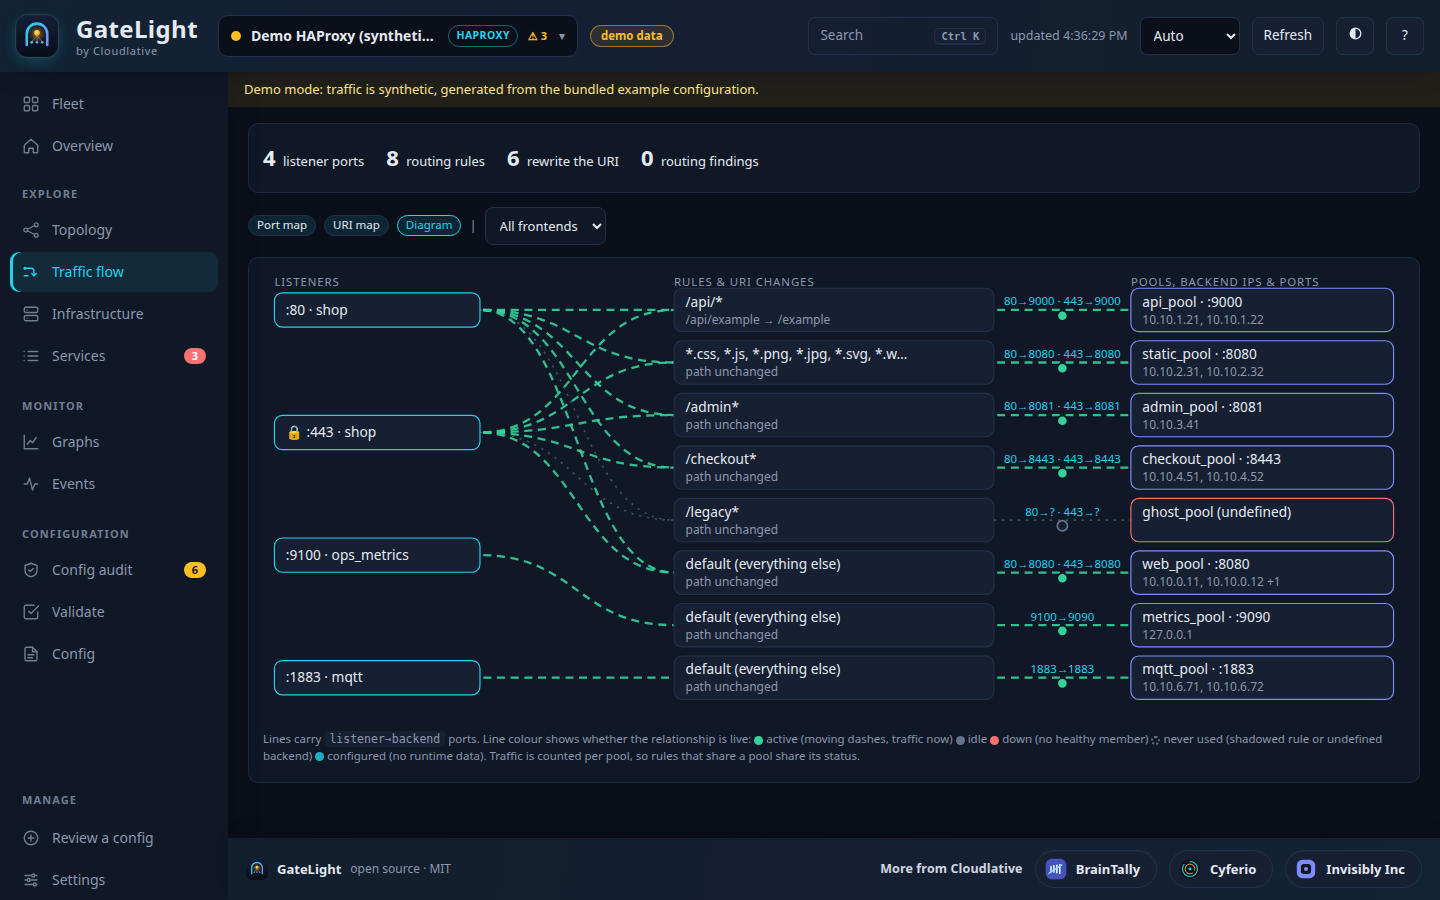
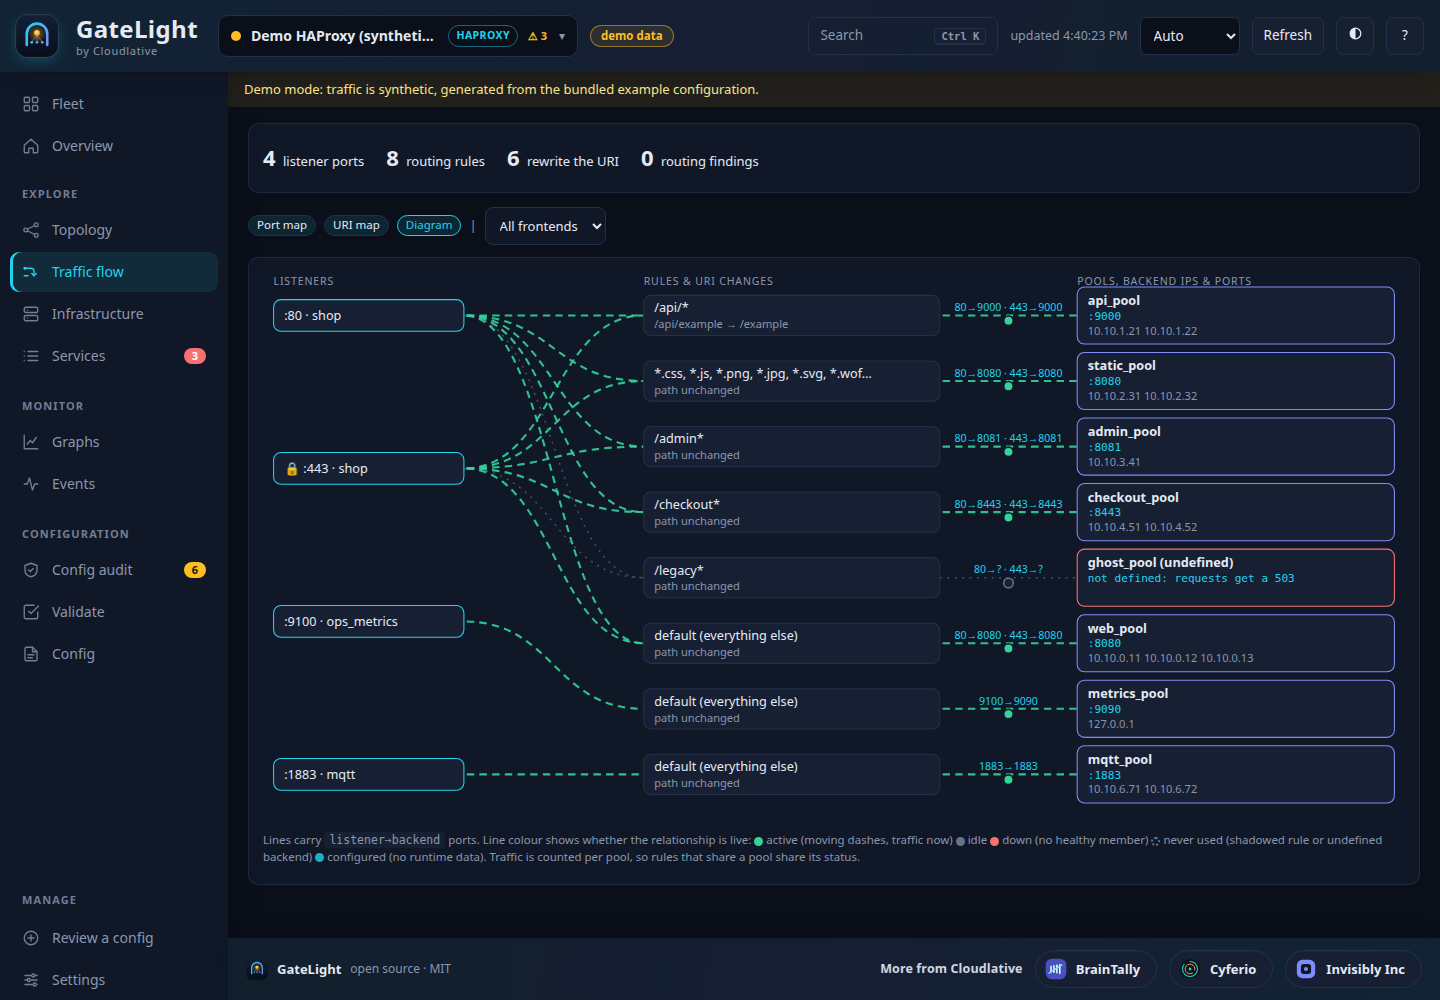
Traffic flow diagram: keep pool info inside its card (name, ports, IPs), shorter line labels

diff --git a/public/app.js b/public/app.js
@@ -1356,29 +1356,43 @@ function flowSvg(flows) {
     f.listeners.filter((l) => l.port).forEach((l) => { const k = `${f.frontend}|${l.port}|${l.tls}`; if (!lisIdx.has(k)) { lisIdx.set(k, lis.length); lis.push({ k, fe: f.frontend, port: l.port, tls: l.tls }); } });
     if (!poolIdx.has(f.pool.name)) { poolIdx.set(f.pool.name, pools.length); pools.push(f); }
   });
-  const RH = 46; const rows = Math.max(flows.length, lis.length, pools.length); const H = rows * RH + 36; const W = 1000;
+  const RH = 62; const rows = Math.max(flows.length, lis.length, pools.length); const H = rows * RH + 36; const W = 1080;
   const ly = (i, n) => 20 + (n <= 1 ? (rows * RH) / 2 : (i * (rows * RH - RH)) / (n - 1)) + RH / 2 - 8;
   const clip = (t, n) => (String(t).length > n ? `${String(t).slice(0, n - 1)}…` : String(t));
+  let cid = 0; const clipBox = (x, y, w, h) => { const id = `fsc${cid++}`; return { id, def: `<clipPath id="${id}"><rect x="${x}" y="${y}" width="${w}" height="${h}" rx="7"/></clipPath>` }; };
   let out = `<svg class="flow-svg" viewBox="0 0 ${W} ${H}" role="img" aria-label="Listener to rule to backend pool map" preserveAspectRatio="xMinYMin meet">`;
-  out += `<text x="10" y="14" class="fs-h">LISTENERS</text><text x="360" y="14" class="fs-h">RULES &amp; URI CHANGES</text><text x="760" y="14" class="fs-h">POOLS, BACKEND IPS &amp; PORTS</text>`;
+  out += `<text x="10" y="14" class="fs-h">LISTENERS</text><text x="360" y="14" class="fs-h">RULES &amp; URI CHANGES</text><text x="770" y="14" class="fs-h">POOLS, BACKEND IPS &amp; PORTS</text>`;
   const edge = (x1, y1, x2, y2, cls, label, tip, st) => { const mx = (x1 + x2) / 2; const d = `M${x1},${y1} C${mx},${y1} ${mx},${y2} ${x2},${y2}`; return `<g class="fs-eg"><title>${esc(`${tip || label || ''}${st ? `\n\nStatus: ${FLOW_ST[st.k]}. ${st.text}` : ''}`)}</title><path class="fs-e ${cls || ''} ${st ? `st-${st.k}` : ''}" d="${d}"/><path class="fs-hit" d="${d}"/>${label ? `<text class="fs-pl" x="${mx}" y="${(y1 + y2) / 2 - 4}" text-anchor="middle">${esc(label)}</text>` : ''}${st && label ? `<circle class="fs-dot st-${st.k}" cx="${mx}" cy="${(y1 + y2) / 2 + 5}" r="4.5"/>` : ''}</g>`; };
   flows.forEach((f, i) => {
     const y = ly(i, flows.length); const pi = poolIdx.get(f.pool.name); const py = ly(pi, pools.length); const st = flowStatus(f);
     f.listeners.filter((l) => l.port).forEach((l) => { const li = lisIdx.get(`${f.frontend}|${l.port}|${l.tls}`); out += edge(190, ly(li, lis.length), 360, y, f.shadowedBy ? 'dead' : '', '', `${l.tls ? 'TLS ' : ''}port ${l.port} on ${f.frontend}\n→ ${f.match.type === 'default' ? 'default rule' : f.match.text}`, st); });
     const pm = f.portMap[f.portMap.length - 1];
-    const label = f.portMap.map((p) => `${p.in}→${p.out.length ? p.out.join('/') : '?'}`).slice(0, 3).join(' · ');
-    out += edge(640, y, 760, py, `${f.pool.undefined ? 'bad' : ''} ${f.shadowedBy ? 'dead' : ''} ${pm && pm.tls === 're-encrypt' && (st.k === 'config' || st.k === 'idle') ? 'enc' : ''}`, label, `${f.frontend} → ${f.pool.name}\n${f.portMap.map((p) => `${p.listenerTls ? '🔒' : ''}:${p.in} → ${p.targets.length ? p.targets.join(', ') : '?'}  (${TLS_LABEL[p.tls] || p.tls})`).join('\n')}${f.pool.undefined ? '\nBackend is not defined' : ''}`, st);
+    const sh = (o) => (!o.length ? '?' : o.length <= 2 ? o.join('/') : `${Math.min(...o)}…${Math.max(...o)}`); // long port lists: first…last
+    const label = clip(f.portMap.map((p) => `${p.in}→${sh(p.out)}`).slice(0, 2).join(' · '), 24);
+    out += edge(640, y, 770, py, `${f.pool.undefined ? 'bad' : ''} ${f.shadowedBy ? 'dead' : ''} ${pm && pm.tls === 're-encrypt' && (st.k === 'config' || st.k === 'idle') ? 'enc' : ''}`, label, `${f.frontend} → ${f.pool.name}\n${f.portMap.map((p) => `${p.listenerTls ? '🔒' : ''}:${p.in} → ${p.targets.length ? p.targets.join(', ') : '?'}  (${TLS_LABEL[p.tls] || p.tls})`).join('\n')}${f.pool.undefined ? '\nBackend is not defined' : ''}`, st);
   });
-  lis.forEach((l, i) => { const y = ly(i, lis.length); out += `<g><title>${esc(`${l.tls ? 'TLS ' : ''}listener :${l.port} of ${l.fe}\n${flows.filter((f) => f.frontend === l.fe && f.listeners.some((x) => x.port === l.port)).length} routing rule(s)`)}</title><rect class="fs-n fs-l" x="10" y="${y - 15}" width="180" height="30" rx="7"/><text class="fs-t" x="20" y="${y + 4}">${l.tls ? '🔒 ' : ''}:${esc(l.port)} · ${esc(clip(l.fe.replace(/:[\d+]+(#\d+)?$/, ''), 20))}</text></g>`; });
+  lis.forEach((l, i) => { const y = ly(i, lis.length); const c = clipBox(10, y - 15, 180, 30);
+    out += `<g><title>${esc(`${l.tls ? 'TLS ' : ''}listener :${l.port} of ${l.fe}\n${flows.filter((f) => f.frontend === l.fe && f.listeners.some((x) => x.port === l.port)).length} routing rule(s)`)}</title>${c.def}<rect class="fs-n fs-l" x="10" y="${y - 15}" width="180" height="30" rx="7"/><text class="fs-t" clip-path="url(#${c.id})" x="20" y="${y + 4}">${l.tls ? '🔒 ' : ''}:${esc(l.port)} · ${esc(clip(l.fe.replace(/:[\d+]+(#\d+)?$/, ''), 20))}</text></g>`; });
   flows.forEach((f, i) => {
-    const y = ly(i, flows.length); const ex = f.example;
+    const y = ly(i, flows.length); const ex = f.example; const c = clipBox(360, y - 19, 280, 38);
     const host = f.match.hosts && f.match.hosts.length ? `${f.match.hosts[0]} ` : '';
-    out += `<g><title>${esc(f.match.text)}${ex ? `\n${ex.in} → ${ex.out}` : ''}</title><rect class="fs-n fs-r${f.shadowedBy ? ' dead' : ''}" x="360" y="${y - 19}" width="280" height="38" rx="7"/>
-      <text class="fs-t" x="370" y="${y - 3}">${esc(clip(f.match.type === 'default' ? 'default (everything else)' : `${host}${f.match.short || f.match.text}`, 38))}</text>
-      <text class="fs-s" x="370" y="${y + 12}">${f.shadowedBy ? `⚠ shadowed by rule #${f.shadowedBy}` : ex && ex.changed ? `${esc(clip(ex.in, 17))} → ${esc(clip(ex.out, 17))}` : f.chain.some((s) => s.kind === 'terminal' && s.applies === true) ? 'answers with a redirect / deny' : 'path unchanged'}</text></g>`;
+    out += `<g><title>${esc(f.match.text)}${ex ? `\n${ex.in} → ${ex.out}` : ''}</title>${c.def}<rect class="fs-n fs-r${f.shadowedBy ? ' dead' : ''}" x="360" y="${y - 19}" width="280" height="38" rx="7"/>
+      <text class="fs-t" clip-path="url(#${c.id})" x="370" y="${y - 3}">${esc(clip(f.match.type === 'default' ? 'default (everything else)' : `${host}${f.match.short || f.match.text}`, 40))}</text>
+      <text class="fs-s" clip-path="url(#${c.id})" x="370" y="${y + 12}">${f.shadowedBy ? `⚠ shadowed by rule #${f.shadowedBy}` : ex && ex.changed ? `${esc(clip(ex.in, 20))} → ${esc(clip(ex.out, 20))}` : f.chain.some((s) => s.kind === 'terminal' && s.applies === true) ? 'answers with a redirect / deny' : 'path unchanged'}</text></g>`;
   });
-  pools.forEach((f, i) => { const y = ly(i, pools.length); const ports = [...new Set(f.portMap.flatMap((p) => p.out))]; const hosts = [...new Set(f.members.map((m) => (m.addr.kind === 'socket' ? m.address : m.addr.host)))];
-    out += `<g><title>${esc(f.pool.name)}\n${esc(f.portMap.flatMap((p) => p.targets).filter((t, i, a) => a.indexOf(t) === i).join('\n'))}</title><rect class="fs-n fs-p${f.pool.undefined ? ' bad' : ''}" x="760" y="${y - 19}" width="230" height="38" rx="7"/><text class="fs-t" x="770" y="${y - 3}">${esc(clip(f.pool.name, 18))}${f.pool.undefined ? ' (undefined)' : ports.length ? ` · ${ports.slice(0, 3).map((x) => `:${x}`).join(' ')}${ports.length > 3 ? '…' : ''}` : ''}</text><text class="fs-s" x="770" y="${y + 12}">${hosts.length ? esc(clip(`${hosts.slice(0, 2).join(', ')}${hosts.length > 2 ? ` +${hosts.length - 2}` : ''}`, 34)) : f.pool.undefined ? '' : 'no members'}</text></g>`; });
+  pools.forEach((f, i) => {
+    const y = ly(i, pools.length); const ports = [...new Set(f.portMap.flatMap((p) => p.out))].sort((a, b) => a - b);
+    const hosts = [...new Set(f.members.map((m) => (m.addr.kind === 'socket' ? m.address : m.addr.host)))];
+    const c = clipBox(770, y - 27, 300, 54);
+    // everything lives inside the card: name, then ports, then member IPs; what does not fit is summarised as "+N"
+    const fit = (list, fmt, max) => { let t = ''; let n = 0; for (const x of list) { const nx = `${t}${t ? ' ' : ''}${fmt(x)}`; if (nx.length > max - 6 && n < list.length) break; t = nx; n++; } return n < list.length ? `${t} +${list.length - n}` : t; };
+    const l1 = f.pool.undefined ? `${f.pool.name} (undefined)` : f.pool.name;
+    const l2 = f.pool.undefined ? 'not defined: requests get a 503' : ports.length ? fit(ports, (x) => `:${x}`, 44) : 'no ports';
+    const l3 = f.pool.undefined ? '' : hosts.length ? fit(hosts, (x) => x, 44) : 'no members';
+    out += `<g><title>${esc(f.pool.name)}\n${esc(f.portMap.flatMap((p) => p.targets).filter((t, k, a) => a.indexOf(t) === k).join('\n'))}</title>${c.def}<rect class="fs-n fs-p${f.pool.undefined ? ' bad' : ''}" x="770" y="${y - 27}" width="300" height="54" rx="7"/>
+      <text class="fs-t fs-tb" clip-path="url(#${c.id})" x="780" y="${y - 10}">${esc(clip(l1, 40))}</text>
+      <text class="fs-s fs-sp" clip-path="url(#${c.id})" x="780" y="${y + 4}">${esc(l2)}</text>
+      <text class="fs-s" clip-path="url(#${c.id})" x="780" y="${y + 18}">${esc(l3)}</text></g>`; });
   // <title> tooltips are slow and unreliable: carry the text in data-tip and show it with our own instant tooltip
   return `${out}</svg>`.replace(/<g( class="[^"]*")?><title>([\s\S]*?)<\/title>/g, (_m, c, t) => `<g${c || ''} data-tip="${t}">`);
 }

diff --git a/public/app.css b/public/app.css
@@ -1005,3 +1005,4 @@ ul.tree, .tree ul { list-style: none; margin: 0; padding: 0; } .tree ul { margin
 
 .cx-urls textarea { width: 100%; font-family: var(--mono); font-size: 12.5px; } .cx-urlnote { display: block; margin: 4px 0 10px; }
 #cfg-refresh[disabled] { opacity: .6; }
+.fs-tb { font-weight: 600; } .fs-sp { fill: var(--cyan); font-family: var(--mono); }
